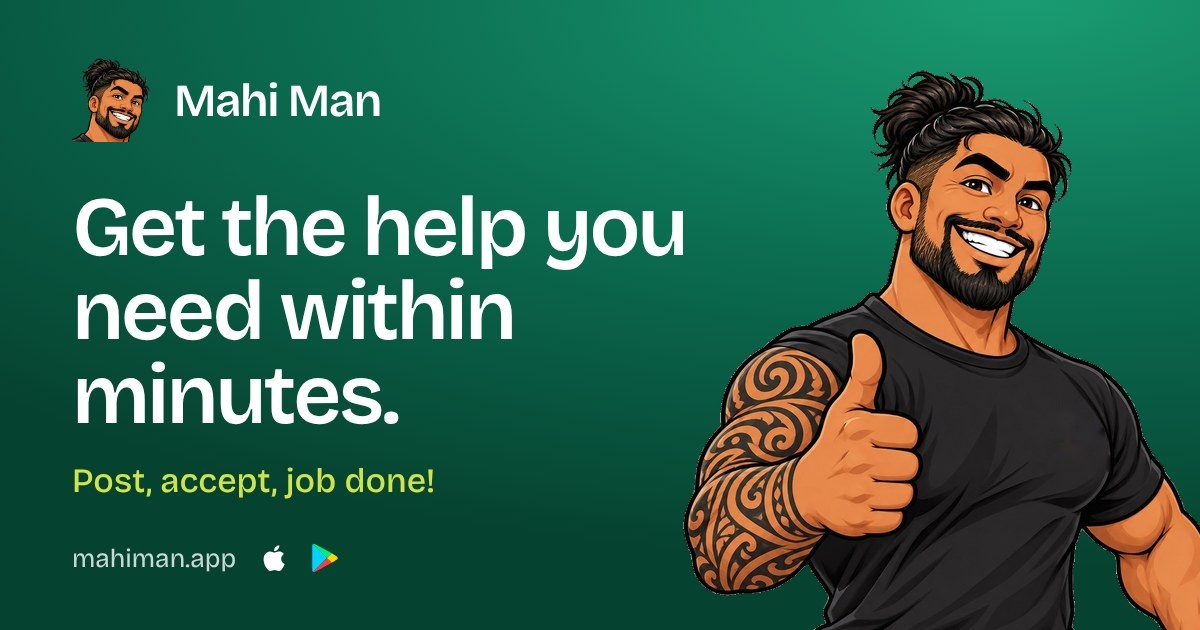
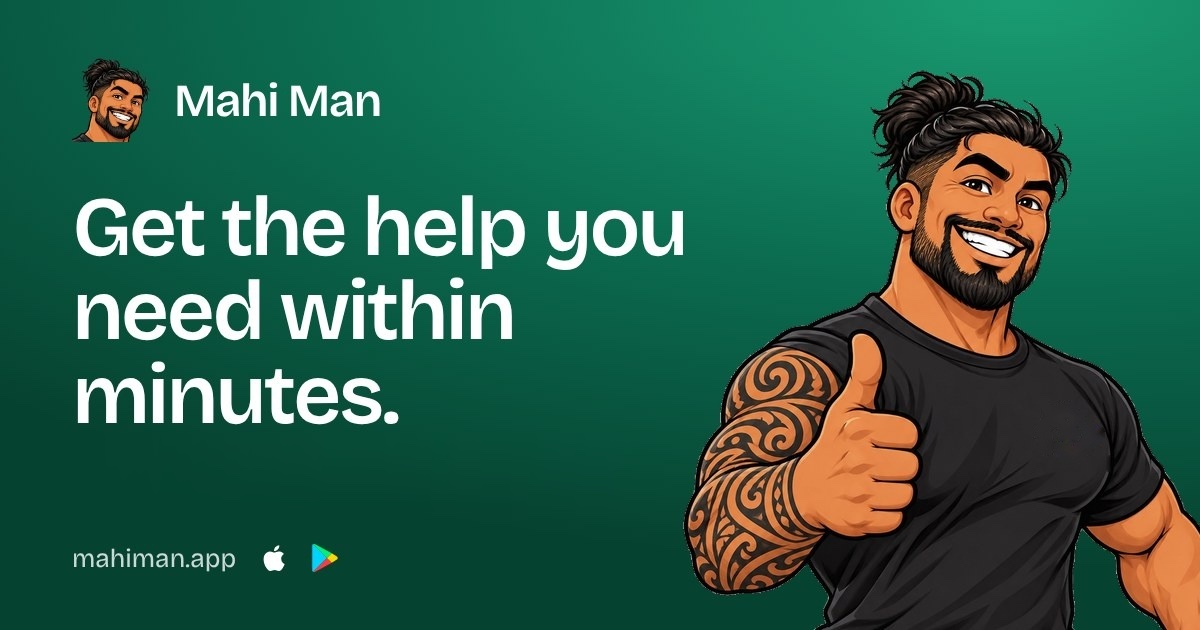
Website and share cards: splash slogan only, Get the help you need within minutes
Post, accept, job done! taken off the hero, footer, meta tags, manifest and both share cards.
No og:url, so shared gift (/g/) and worker code (/w/) links keep their own address.

Changed region(s): [[0.0617, 0.7238, 0.37, 0.7841]]

diff --git a/index.html b/index.html
@@ -9,27 +9,27 @@
     <link rel="icon" href="/favicon-64.png" type="image/png" sizes="64x64" />
     <link rel="apple-touch-icon" href="/apple-touch-icon.png" />
     <meta name="apple-mobile-web-app-title" content="Mahi Man" />
-    <meta name="description" content="Get the help you need within minutes. Post, accept, job done!" />
+    <meta name="description" content="Get the help you need within minutes. Odd jobs done by locals, fast." />
     <meta name="apple-mobile-web-app-capable" content="yes" />
     <meta name="apple-mobile-web-app-status-bar-style" content="black-translucent" />
     <link rel="preconnect" href="https://fonts.googleapis.com" />
     <link rel="preconnect" href="https://fonts.gstatic.com" crossorigin />
     <link href="https://fonts.googleapis.com/css2?family=Bricolage+Grotesque:opsz,wght@12..96,300;12..96,400;12..96,500;12..96,600&display=swap" rel="stylesheet" />
     <title>Mahi Man</title>
-    <!-- Share cards: /api/og picks one of the two designs each time a link is shared. -->
+    <!-- Share cards: /api/og picks one of the two designs each time a link is shared.
+         No og:url on purpose: gift (/g/) and worker code (/w/) links must keep their own address when shared. -->
     <meta property="og:type" content="website" />
     <meta property="og:site_name" content="Mahi Man" />
-    <meta property="og:url" content="https://mahiman.app/" />
     <meta property="og:title" content="Mahi Man: Get the help you need within minutes" />
-    <meta property="og:description" content="Post, accept, job done! Odd jobs done by locals, fast." />
+    <meta property="og:description" content="Odd jobs done by locals, fast." />
     <meta property="og:image" content="https://mahiman.app/api/og" />
     <meta property="og:image:type" content="image/jpeg" />
     <meta property="og:image:width" content="1200" />
     <meta property="og:image:height" content="630" />
-    <meta property="og:image:alt" content="Mahi Man. Get the help you need within minutes. Post, accept, job done!" />
+    <meta property="og:image:alt" content="Mahi Man. Get the help you need within minutes." />
     <meta name="twitter:card" content="summary_large_image" />
     <meta name="twitter:title" content="Mahi Man: Get the help you need within minutes" />
-    <meta name="twitter:description" content="Post, accept, job done! Odd jobs done by locals, fast." />
+    <meta name="twitter:description" content="Odd jobs done by locals, fast." />
     <meta name="twitter:image" content="https://mahiman.app/api/og" />
   </head>
   <body>

diff --git a/src/styles.css b/src/styles.css
@@ -800,9 +800,8 @@ body::after { content: ""; position: fixed; top: 0; left: 0; right: 0; height: v
 .avail-dot { width: 10px; height: 10px; border-radius: 50%; background: var(--lime); flex: none; animation: avail 1.8s ease-in-out infinite; }
 @keyframes avail { 0%, 100% { opacity: 1; } 50% { opacity: 0.45; } }
 
-/* Landing hero: the longer headline, and the tagline under it */
-.ld-hero h1 { font-size: clamp(38px, 4.8vw, 62px); letter-spacing: -1.5px; line-height: 1.02; }
-.ld-tag { display: block; margin: 0 0 28px; font-size: clamp(22px, 2.4vw, 30px); font-weight: 600; color: var(--lime); letter-spacing: -0.5px; }
+/* Landing hero: the longer headline (the splash slogan) */
+.ld-hero h1 { margin-bottom: 32px; font-size: clamp(38px, 4.8vw, 62px); letter-spacing: -1.5px; line-height: 1.02; }
 /* How it works: the line that opens each side's three steps */
 .ld-who { display: block; margin: 8px 0 22px; font-size: 20px; font-weight: 600; color: var(--emerald); letter-spacing: -0.2px; }
 

diff --git a/src/ui/Landing.tsx b/src/ui/Landing.tsx
@@ -134,7 +134,6 @@ export function Landing() {
           <div className="ld-hero-text">
             <span className="ld-pin">{Icon.pin("#d4f04c")} Australia wide</span>
             <h1>Get the help you need within minutes.</h1>
-            <span className="ld-tag">Post, accept, job done!</span>
             <div className="row ld-ctas">
               <a className="btn lime" href="/post" onClick={link("/post")}>Post a job, free {Icon.arrow("var(--ink)")}</a>
               <a className="btn ghost" href="/find" onClick={link("/find")}>Want work?</a>
@@ -329,7 +328,7 @@ export function SiteFooter() {
       <div className="ld-wrap ld-foot-grid">
         <div className="ld-foot-brand">
           <a className="brand" href="/" onClick={nav("/")}><Logo /> Mahi Man</a>
-          <p>Get the help you need within minutes. Post, accept, job done!</p>
+          <p>Get the help you need within minutes.</p>
           <StoreBadges stack />
         </div>
         <nav className="ld-foot-col">
